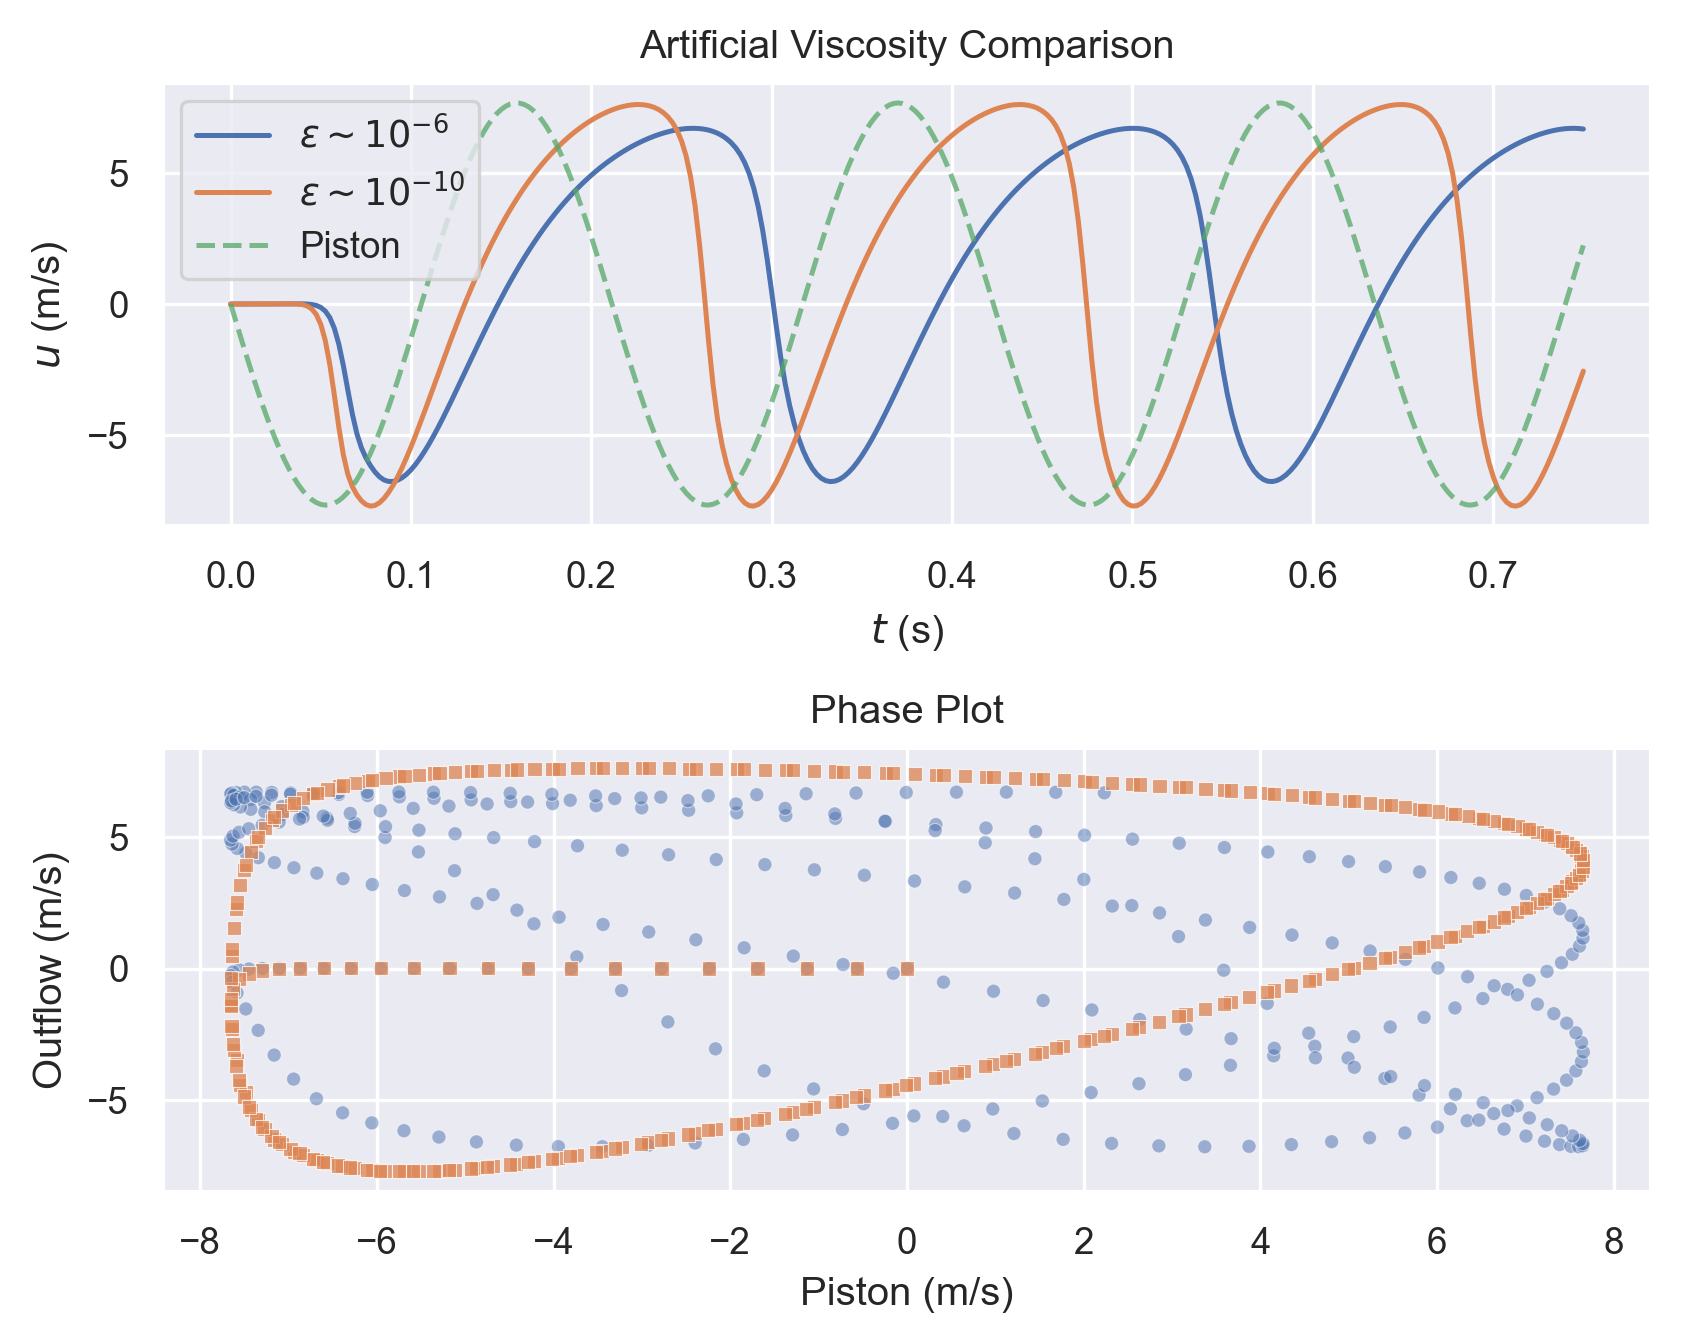
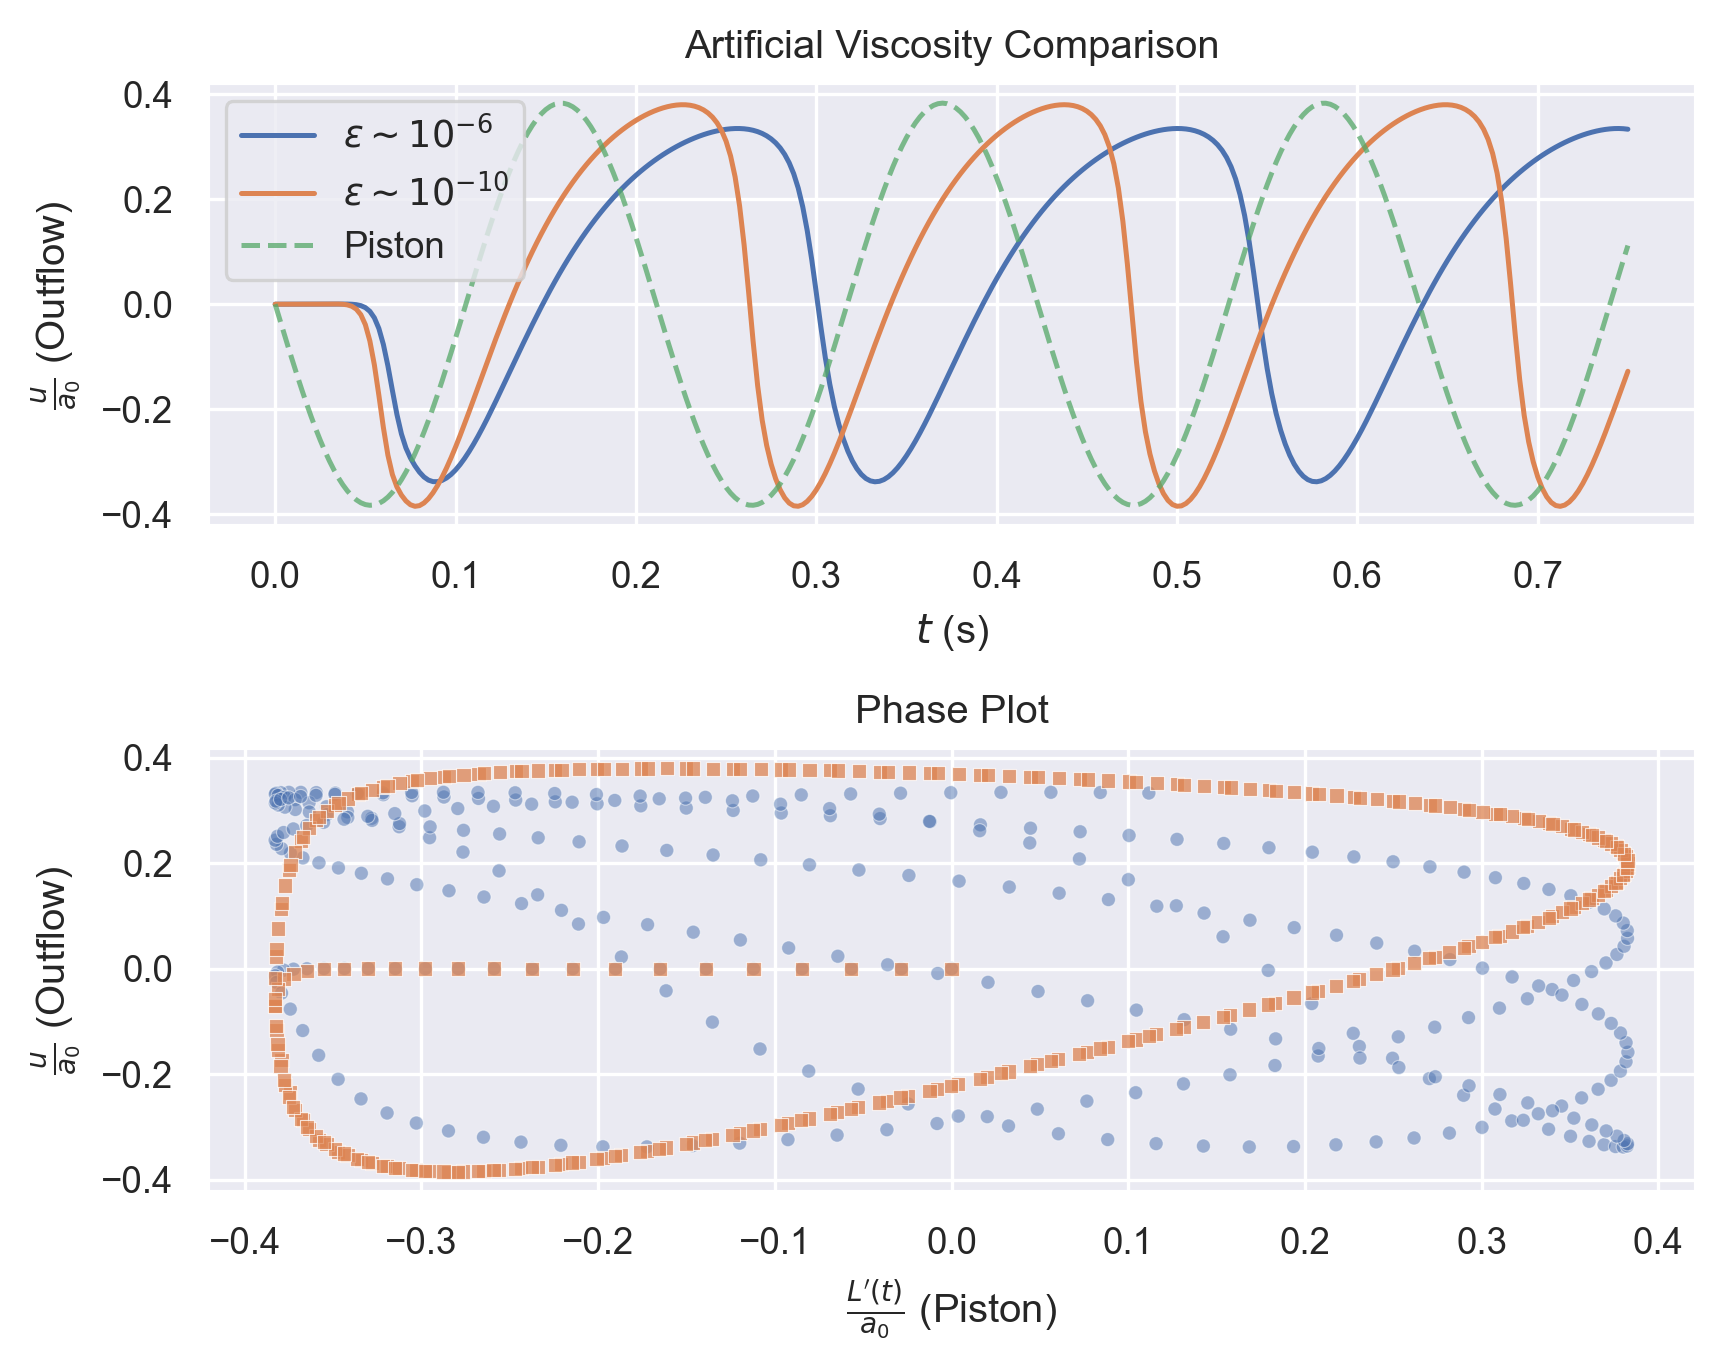
BUG, CLN: Typos and units in the plots
* CLN: Nondimensional results (FOM Calibration)
  * BUG: Nonlinear evaluation is done with u*
  * BUG: Typo in the BDF-2 coefficients
  * CLN: Add footnote and remove equation number

diff --git a/research_project/piston/burgers_1d_rom.tex b/research_project/piston/burgers_1d_rom.tex
@@ -109,7 +109,7 @@ By doing so, we find the following ROM for the time evolution problem,
         \nonumber 
         \\[2mm]
         + \dt \vb{\hat{N}}^{n+1}_{N} \vb{\hat{u}}_{N}^{n+1}
-        + \dt \left[\vb{N}^{n+1}_{N}\left(\vb{\hat{u}}_{N}^{n}\right)\right] \vb{\hat{u}}_{N}^{n+1}
+        + \dt \left[\vb{N}^{n+1}_{N}\left(\vb{\hat{u}}_{N}^{*}\right)\right] \vb{\hat{u}}_{N}^{n+1}
         \nonumber
         \\[2mm]
         = \vb{F}_{\vb{\hat{u}}_{N}}^{n}
@@ -147,7 +147,7 @@ this time in the reduced space, to be solved for each timestep to advance the so
         \vb{K}_{N}^{n+1} &= m_{\text{BDF}} \Ah{M} + \dt \left[\Ah{A} + \Ah{C} \right. 
         \nonumber 
         \\
-                        &\left. + \Ah{\hat{N}} + \Ah{N}\left(\vb{\hat{u}}_{N}^{n}\right)\right],
+                        &\left. + \Ah{\hat{N}} + \Ah{N}\left(\vb{\hat{u}}_{N}^{*}\right)\right],
         \\[2mm]
         \vb{b}_{N}^{n+1} &= \vb{F}_{\vb{\hat{u}}_{N}}^{n} + \dt \vb{F}_{g,N}^{n+1}.
     \end{align}
@@ -171,8 +171,8 @@ The forcing term due to the time discretization takes the following form in the 
     \begin{cases}
         \vb{M}_{N}^{n+1} \vb{\hat{u}}_{N}^{n},                & \text{BDF-1},
         \\
-        \frac{1}{2}\vb{M}_{N}^{n+1} \vb{\hat{u}}_{N}^{n}
-        - \frac{3}{2}\vb{M}_{N}^{n+1} \vb{\hat{u}}_{N}^{n-1}, & \text{BDF-2}.
+        2 \vb{M}_{N}^{n+1} \vb{\hat{u}}_{N}^{n}
+        - \frac{1}{2}\vb{M}_{N}^{n+1} \vb{\hat{u}}_{N}^{n-1}, & \text{BDF-2}.
     \end{cases}
 \end{equation}
 Again, these mimic the algebraic pattern obtained in the FOM.
@@ -396,10 +396,6 @@ which is the approximation of the reduced operators when the collateral basis
 has been projected unto the reduced space.
 
 % -----------------------------------------------------------------------------
-\subsubsection{Discussion on the Approximation Target}
-There are reasons to approximate $A_h$ instead of directly $A_N$, but I still need to wrap my head around them. 
-
-% -----------------------------------------------------------------------------
 \subsubsection{Evaluation of the Coefficient Functions}
 To evaluate the $\Theta_q^a(t, \mu)$ functions, we set and solve an interpolation problem;
 that is, 
@@ -477,7 +473,9 @@ obtain the reduced solution in time for a given parametrization,
         \vb{\hat{u}}_N^{0} = \vb{\hat{u}}_{N,0}.
     \end{align}
 \end{subequations}
-If we collect terms and factor out the unknowns we get a linear system, in the reduced space and with approximated operators, to be solved for each timestep to advance the solution,
+If we collect terms and factor out the unknowns we get a linear system, 
+in the reduced space and with approximated operators, 
+to be solved for each timestep to advance the solution,
 \begin{subequations}
     \label{eq:1d_hrom_linear_system_timestep}
     \begin{align}
@@ -488,23 +486,33 @@ If we collect terms and factor out the unknowns we get a linear system, in the r
         \vb{K}_{N}^{m, n+1} &= m_{\text{BDF}} \Ahm{M} + \dt \left[\Ahm{A} + \Ahm{C} \right. 
         \nonumber 
         \\
-                        &\left. + \Ahm{\hat{N}} + \Ahm{N}\left(\vb{\hat{u}}_{N}^{m, n}\right)\right],
+                        &\left. + \Ahm{\hat{N}} + \Ahm{N}\left(\vb{\hat{u}}_{N}^{m, *}\right)\right],
         \\
         \vb{b}_{N}^{m, n+1} &= \vb{F}_{\vb{\hat{u}}_{N}}^{m,n} + \dt \vb{F}_{g,N}^{m, n+1}.
     \end{align}
 \end{subequations}
-Each of the operators present in the problem, $\vb{M}_N, \vb{A}_N, \vb{F}_N \qqtext{and} \vb{F}_{g,N}$ will have associated an operator basis and will require the solution of the interpolation problem \eqref{eq:1d_rom_burgers_interpolation_problem} to be solved for each timestep and parameter value.
-Although this could still seem like a costly procedure, if the operators are actually reduceable, the number of basis functions $Q_m, Q_a, Q_f, Q_{f,g}$ should be small, and thus way simpler problems than assembling the whole operator and the carrying out the projection. 
+Each of the operators present in the problem, 
+$\vb{M}_N, \vb{A}_N, \vb{F}_N \qqtext{and} \vb{F}_{g,N}$ will have associated 
+an operator basis and will require the solution of 
+the interpolation problem \eqref{eq:1d_rom_burgers_interpolation_problem} 
+to be solved for each timestep and parameter value.
+Although this could still seem like a costly procedure, 
+if the operators are actually reduceable, 
+the number of basis functions $Q_m, Q_a, Q_f, Q_{f,g}$ should be small,
+and thus way simpler problems than assembling the whole operator and 
+then carrying out the projection. 
 
 % Note that the vector $\vb{F}_{\vb{\hat{u}}_N}^{n}$ is not approximated.
 % The projection of the previous solution is directly obtained in the reduced space.
 
-Once the reduced homogeneous solution $\hat{u}^{m}_N(x)$ is obtained with approximated operators, it can be brought back to the original space $V_h$ via Equation~\eqref{eq:1d_rom_burgers_projection_relation}, and then add on top of it the FE representation of the Dirichlet lifting, to obtain the final solution,
+Once the reduced homogeneous solution $\hat{u}^{m}_N(x)$ is obtained 
+with approximated operators, it can be brought back to the original space $V_h$ 
+via Equation~\eqref{eq:1d_rom_burgers_projection_relation}, 
+and then add on top of it the FE representation of the Dirichlet lifting, 
+to obtain the final solution,
 \begin{equation}
     u(x, t; \mu) \simeq u_h^{m}(t, \mu) = \rbV \hat{u}^{m}_N(t, \mu) + g_h(t,\mu).
 \end{equation}
-
-% \printbibliography
 
 \end{document}
 

diff --git a/research_project/piston/burgers_1d_calibration.tex b/research_project/piston/burgers_1d_calibration.tex
@@ -23,11 +23,14 @@ In Section~\ref{sec:fom_calibration_artificial_viscosity} we show the effects of
 in Section~\ref{sec:fom_calibration_bdf_convergence_rates} we explore the differences 
 between BDF-1 and BDF-2 time integration schemes;
 and finally in Section~\ref{sec:fom_calibration_system_forcing} we show how
-certain combinations within the parameter space produce unfeasible solutions, 
+certain combinations within the parameter space produce unfeasible solutions\footnote{
+    Due to the lack of a proper stabilization scheme. 
+    We are comfortable with this choice since it was not mandatory to
+    showcase our reduction tools.
+}, 
 and so we explain how to sample within the feasible range.
 
 \subsection{Artificial Viscosity}
-\mytodo{Add text: AV is a placeholder for stabilization operators.}
 \label{sec:fom_calibration_artificial_viscosity}
 As stated previously in the document, 
 we included an artificial viscosity term in the final formulation
@@ -46,9 +49,9 @@ this value,
 no matter how small, was introducing measurable damping into the system.
 
 The actual value that seems correct, keeping the system stable whilst purely convective (at least for the time-scale for which we are solving) seems to be a much smaller one,
-\begin{equation}
+\begin{equation*}
     \varepsilon \sim 10^{-10}.
-\end{equation}
+\end{equation*}
 In Figure~\ref{fig:artificial_viscosity_comparison} we present a comparison for these two viscosity values.
 We show the motion of the fluid at the outflow and a phase plot, to ease the analysis of the correlation between the weak shock wave at the outflow and the piston motion.
 The smallest viscosity value, $(10^{-10})$ leads to a convection-like phase plot:
@@ -152,7 +155,6 @@ Visual inspection reveals that certain solutions contain wiggles when a shock wa
 Naturally, wiggles were not expected to be captured by this simple model, 
 so they must be due to the fact that the shock wave is becoming thinner than the mesh size.
 
-\mytodo{Present nondimensional results.}
 \begin{figure}[h]
     \centering
     \includegraphics[width=1\columnwidth]{research_project/piston/figures/wiggles/smooth_vs_wiggled.png}

diff --git a/research_project/piston/figures/wiggles/plot.py b/research_project/piston/figures/wiggles/plot.py
@@ -9,14 +9,18 @@ seaborn.set_theme("paper")
 smooth = pd.read_csv("probes_FOM_17.csv", index_col=0)["0.0"].squeeze()
 wiggled = pd.read_csv("probes_FOM_18.csv", index_col=0)["0.0"].squeeze()
 
+a0_17 = 19.7
+a0_18 = 10.3
+
 fig, ax = plt.subplots(figsize=(7, 4))
 
-ax.plot(smooth.index, smooth.values, label="smooth", alpha=0.5)
-ax.plot(wiggled.index, wiggled.values, label="wiggled")
+ax.plot(smooth.index, smooth.values / a0_17, label="smooth", alpha=0.5)
+ax.plot(wiggled.index, wiggled.values / a0_18, label="wiggled")
 
 ax.grid(True)
 ax.legend()
 ax.set_xlabel("$t$ (s)")
-ax.set_ylabel("Outflow velocity (m/s)")
+ax.set_ylabel("$u / a_0$")
+ax.set_title("Outflow Velocity Comparison")
 
 plt.savefig("smooth_vs_wiggled.png", **FIG_KWARGS)

diff --git a/research_project/piston/burgers_1d_fom.tex b/research_project/piston/burgers_1d_fom.tex
@@ -1100,7 +1100,7 @@ If we collect terms and factor out the unknowns, we get a compact linear system 
         \vb{K}_h^{n+1} &= \Ah{M} + \dt \left[\Ah{A} + \Ah{C} \right. 
         \nonumber 
         \\
-                        &\left. + \Ah{\hat{N}} + \Ah{N}\left(\vb{\hat{u}}_{h}^{n}\right)\right],
+                        &\left. + \Ah{\hat{N}} + \Ah{N}\left(\vb{\hat{u}}_{h}^{*}\right)\right],
         \\
         \vb{b}_h^{n+1} &= \vb{F}_{\vb{\hat{u}}_h}^{n} + \dt \vb{F}_{g,h}^{n+1}.
     \end{align}
